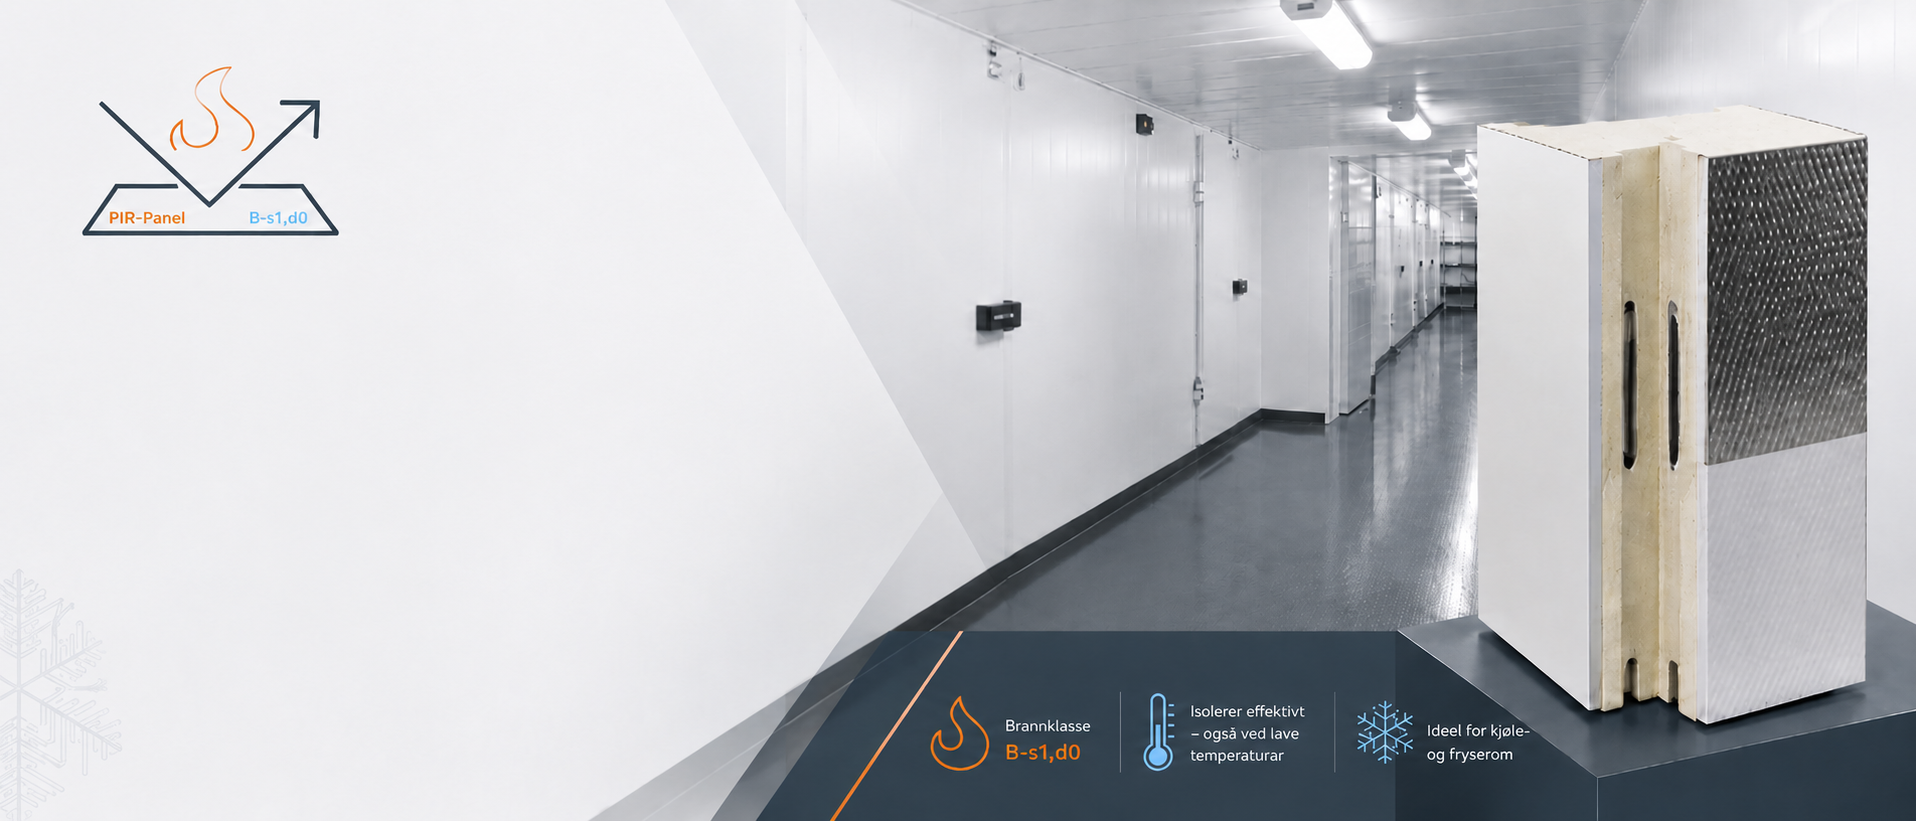
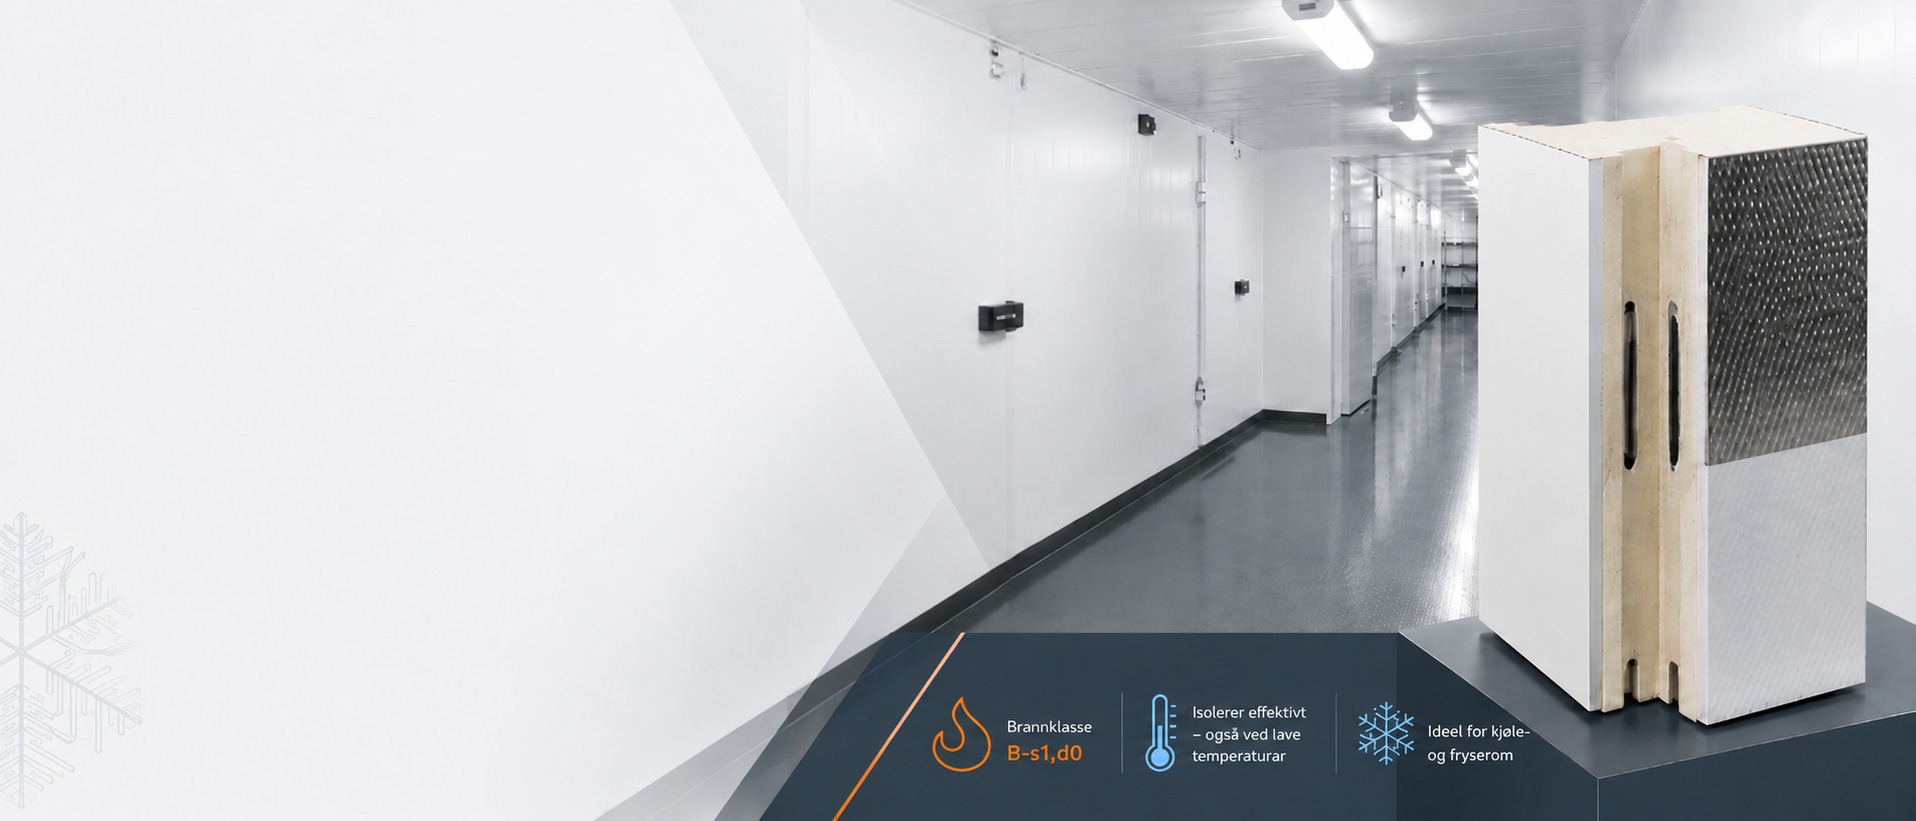
Stabilize PIR panel hero

diff --git a/src/components/content/ContentPageView.tsx b/src/components/content/ContentPageView.tsx
@@ -849,58 +849,68 @@ function PirPanelHero({ page }: { page: ContentPage }) {
   ];
 
   return (
-    <section className="relative isolate min-h-[38rem] overflow-hidden border-b border-slate-200 bg-slate-100 lg:min-h-[42.85vw]">
+    <section className="relative isolate overflow-hidden border-b border-slate-200 bg-white">
       <Image
         src="/assets/fresvik/images/generated/fresvik-pir-panel-hero-background.png"
         alt=""
-        fill
+        width={1916}
+        height={821}
         preload
         sizes="100vw"
-        className="-z-20 object-cover object-[58%_center] sm:object-center"
+        className="h-[34rem] w-full object-cover object-[58%_center] sm:h-auto sm:object-contain"
       />
-      <div className="absolute inset-y-0 left-0 -z-10 w-full bg-[linear-gradient(90deg,rgba(255,255,255,0.96)_0%,rgba(255,255,255,0.92)_34%,rgba(255,255,255,0.48)_56%,rgba(255,255,255,0)_82%)]" />
-      <Container className="flex min-h-[38rem] items-end pb-14 pt-48 sm:pb-18 sm:pt-56 lg:min-h-[42.85vw] lg:pb-[7vw] lg:pt-[12vw]">
-        <div className="max-w-2xl lg:max-w-[38rem]">
-          <p className="text-xs font-black uppercase tracking-[0.18em] text-cyan-800 sm:text-sm">
-            {page.eyebrow}
-          </p>
-          <h1 className="mt-4 text-4xl font-black leading-[1.04] tracking-normal text-slate-900 sm:text-5xl lg:text-6xl">
-            Fresvik <span className="text-orange-600">PIR-Panel</span>
-            <span className="mt-2 block text-2xl font-semibold leading-tight text-slate-800 sm:text-3xl">
-              til kjøle- og fryserom
-            </span>
-          </h1>
-          <p className="mt-4 max-w-xl text-base leading-7 text-slate-700 sm:text-lg">
-            Brannsikre panel med PIR-skum for moderne kjøle- og fryserom.
-          </p>
-          <div className="mt-5 flex max-w-xl flex-wrap gap-x-5 gap-y-2">
-            {benefits.map((benefit) => (
-              <p
-                key={benefit}
-                className="border-l-2 border-orange-500 pl-3 text-sm font-semibold text-slate-800 sm:text-base"
-              >
-                {benefit}
-              </p>
-            ))}
-          </div>
-          <div className="mt-7 flex flex-col gap-3 sm:flex-row">
-            <Link
-              href="/kontakt"
-              className="inline-flex h-12 items-center justify-center gap-2 rounded-[6px] bg-orange-600 px-6 text-sm font-semibold text-white shadow-lg shadow-orange-950/10 transition hover:bg-orange-700 focus:outline-none focus-visible:ring-2 focus-visible:ring-orange-600 focus-visible:ring-offset-2"
+
+      <div className="absolute left-[6%] top-[7%] w-24 sm:left-[8%] sm:top-[8%] sm:w-[13vw] sm:max-w-52">
+        <Image
+          src="/assets/fresvik/images/generated/fresvik-pir-panel-icon.png"
+          alt=""
+          width={1254}
+          height={1254}
+          sizes="(max-width: 768px) 6rem, 13vw"
+          className="h-auto w-full"
+        />
+      </div>
+
+      <div className="absolute left-[6%] top-[32%] max-w-[88vw] sm:left-[15%] sm:top-[34%] sm:max-w-[38%]">
+        <p className="text-xs font-black uppercase tracking-[0.18em] text-cyan-800 sm:text-[0.8rem]">
+          {page.eyebrow}
+        </p>
+        <h1 className="mt-3 text-[clamp(2.1rem,3.25vw,4rem)] font-black leading-[1.04] tracking-normal text-slate-900">
+          Fresvik <span className="text-orange-600">PIR-Panel</span>
+          <span className="mt-1.5 block text-[clamp(1.45rem,2.05vw,2.35rem)] font-semibold leading-tight text-slate-800">
+            til kjøle- og fryserom
+          </span>
+        </h1>
+        <p className="mt-3 max-w-xl text-[clamp(0.95rem,1.05vw,1.15rem)] leading-7 text-slate-700">
+          Brannsikre panel med PIR-skum for moderne kjøle- og fryserom.
+        </p>
+        <div className="mt-4 flex max-w-xl flex-wrap gap-x-4 gap-y-2">
+          {benefits.map((benefit) => (
+            <p
+              key={benefit}
+              className="border-l-2 border-orange-500 pl-3 text-sm font-semibold text-slate-800"
             >
-              Send førespørsel <ArrowRight aria-hidden="true" size={18} />
-            </Link>
-            <a
-              href="/assets/fresvik/documents/pir-panel.pdf"
-              target="_blank"
-              rel="noreferrer"
-              className="inline-flex h-12 items-center justify-center gap-2 rounded-[6px] border border-slate-300 bg-white/80 px-6 text-sm font-semibold text-slate-950 backdrop-blur-sm transition hover:border-cyan-800 hover:bg-white hover:text-cyan-900 focus:outline-none focus-visible:ring-2 focus-visible:ring-cyan-800 focus-visible:ring-offset-2"
-            >
-              Produktblad <ExternalLink aria-hidden="true" size={18} />
-            </a>
-          </div>
+              {benefit}
+            </p>
+          ))}
         </div>
-      </Container>
+        <div className="mt-6 flex flex-col gap-3 sm:flex-row">
+          <Link
+            href="/kontakt"
+            className="inline-flex h-11 items-center justify-center gap-2 rounded-[6px] bg-orange-600 px-5 text-sm font-semibold text-white shadow-lg shadow-orange-950/10 transition hover:bg-orange-700 focus:outline-none focus-visible:ring-2 focus-visible:ring-orange-600 focus-visible:ring-offset-2"
+          >
+            Send førespørsel <ArrowRight aria-hidden="true" size={17} />
+          </Link>
+          <a
+            href="/assets/fresvik/documents/pir-panel.pdf"
+            target="_blank"
+            rel="noreferrer"
+            className="inline-flex h-11 items-center justify-center gap-2 rounded-[6px] border border-slate-300 bg-white/80 px-5 text-sm font-semibold text-slate-950 backdrop-blur-sm transition hover:border-cyan-800 hover:bg-white hover:text-cyan-900 focus:outline-none focus-visible:ring-2 focus-visible:ring-cyan-800 focus-visible:ring-offset-2"
+          >
+            Produktblad <ExternalLink aria-hidden="true" size={17} />
+          </a>
+        </div>
+      </div>
     </section>
   );
 }
